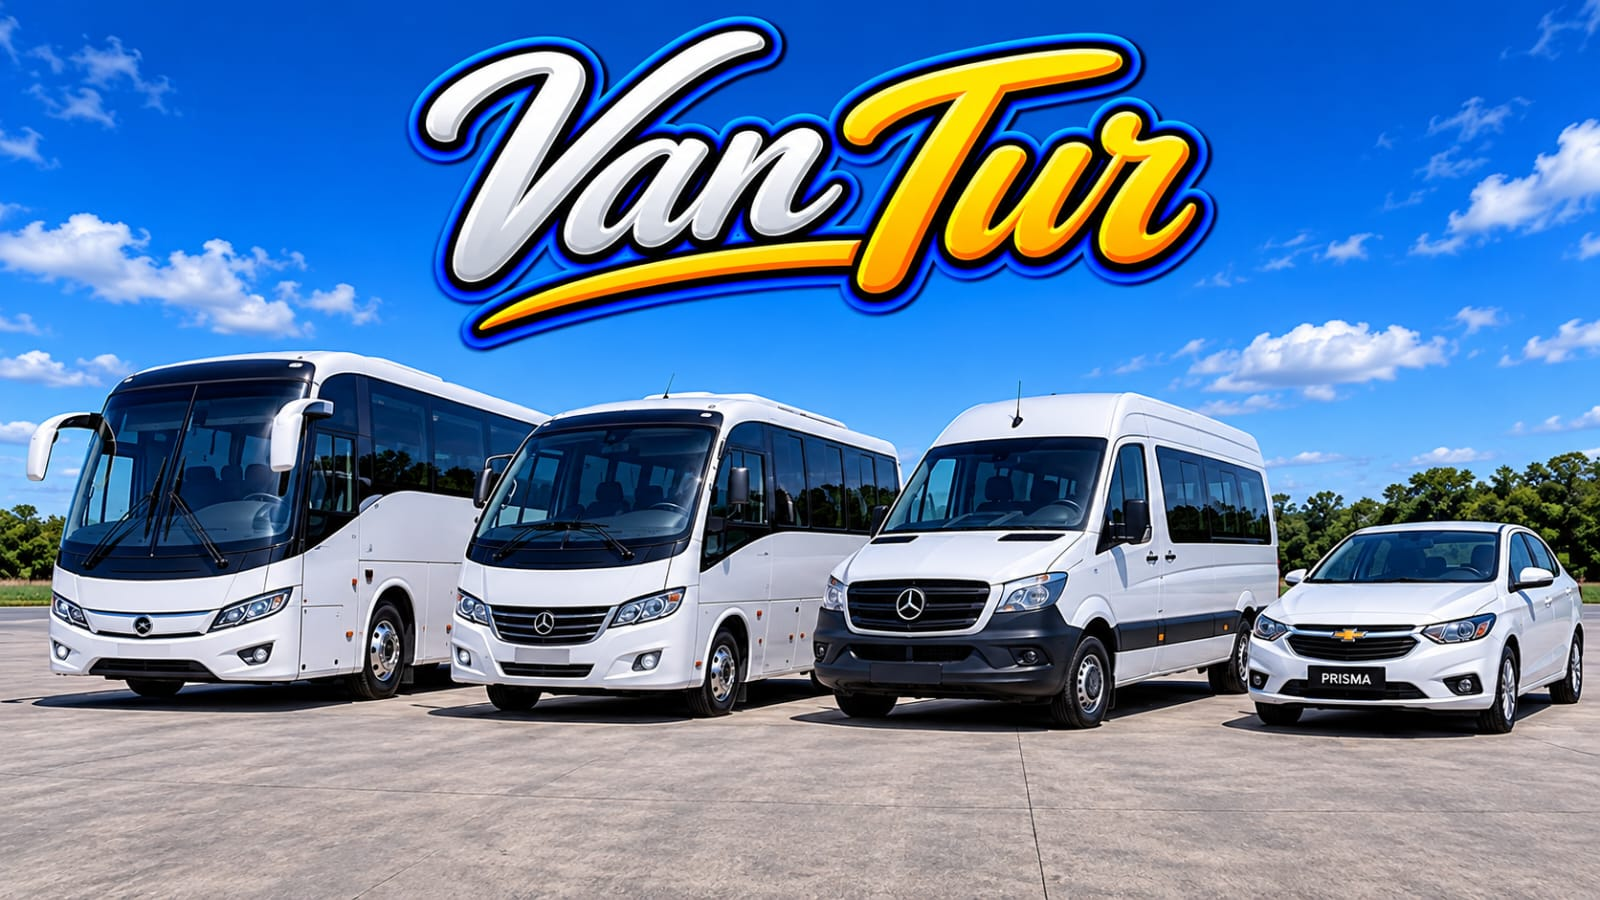
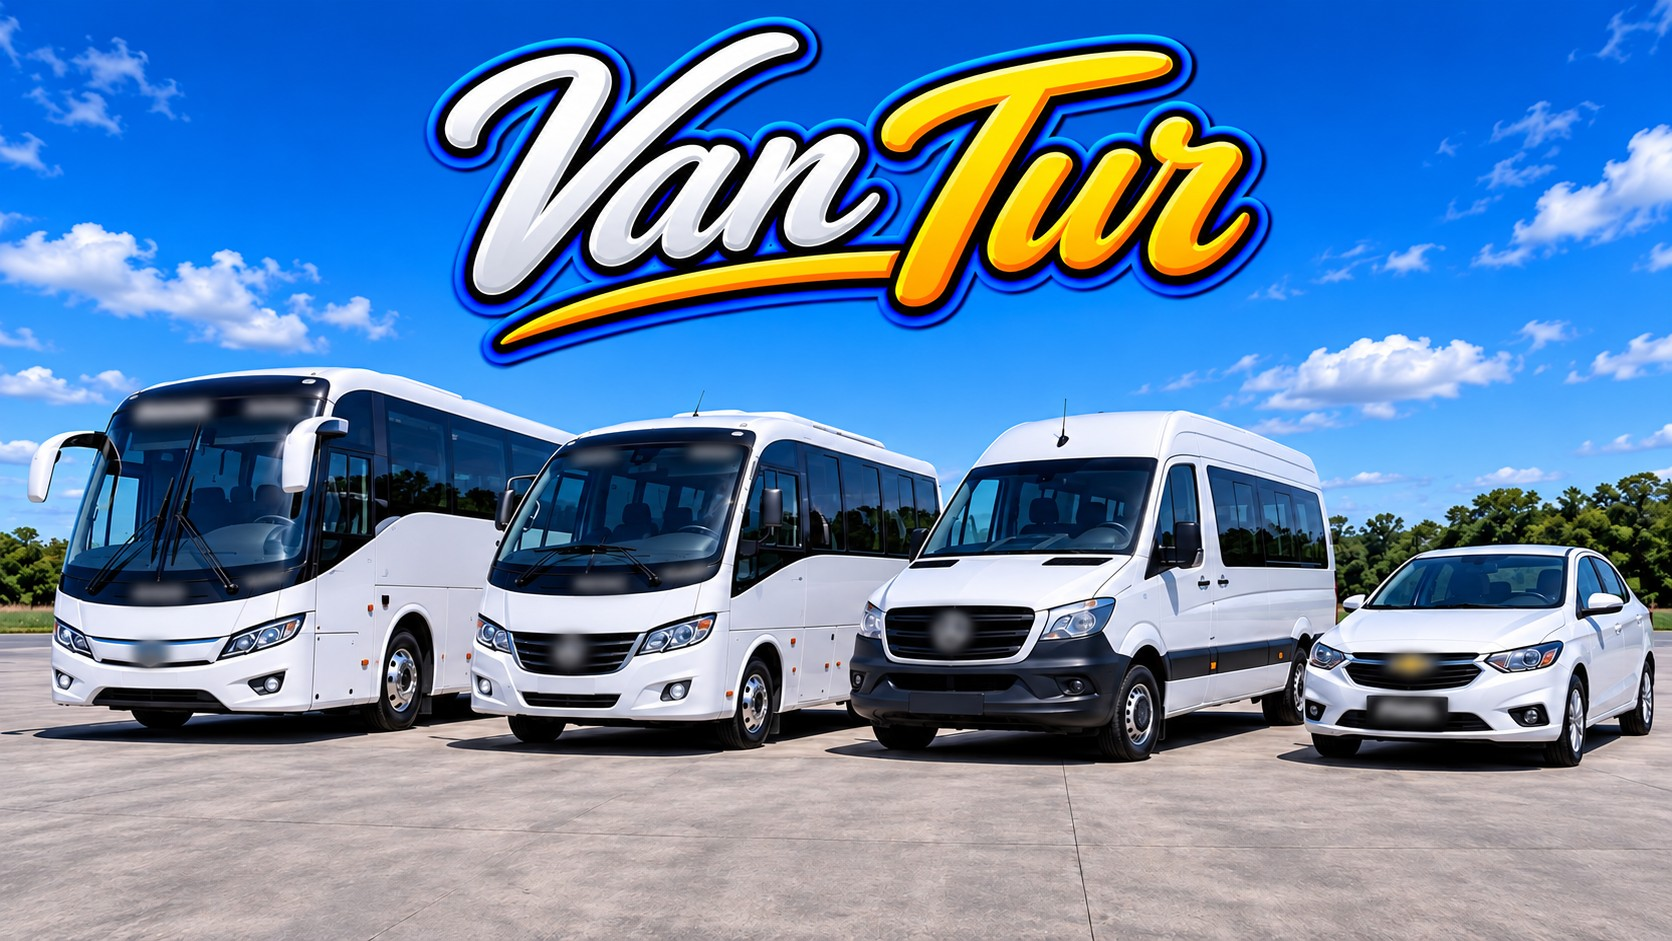
Desfoca marcas de terceiros nas imagens da frota

diff --git a/index.html b/index.html
@@ -13,7 +13,7 @@
 <div class="trust"><div class="wrap"><div><strong><b>01</b> Experiência que acompanha</strong><span>Mais de 20 anos no mercado.</span></div><div><strong><b>02</b> Opções para o seu grupo</strong><span>Do carro executivo ao ônibus.</span></div><div><strong><b>03</b> Sua viagem começa na conversa</strong><span>Orçamento direto pelo WhatsApp.</span></div></div></div>
 <section id="sobre"><div class="wrap about"><div class="about-image"><img src="assets/vans-novas-sem-placa.png" alt="Veículos disponíveis para viagens em grupo" loading="lazy"><div class="year"><strong>2000</strong><span>GRUPO PLASCH · DESDE</span></div></div><div><span class="eyebrow">Prazer, somos a VanTur</span><h2>Experiência no caminho.<br>Compromisso com você.</h2><p>Há mais de 20 anos no mercado, com experiência e compromisso sério. Somos do Grupo Plasch, que tem CNPJ ativo desde 2000.</p><p>Organizamos o transporte para viagens, compromissos empresariais e eventos, considerando o trajeto, o tamanho do grupo e os detalhes de cada ocasião.</p><p>Conte seu plano. Nossa equipe ajuda você a consultar o veículo e as condições para o seu deslocamento.</p><a class="textlink" href="#orcamento">Vamos planejar seu trajeto ↗</a></div></div></section>
 <section class="services" id="servicos"><div class="wrap"><div class="section-head"><div><span class="eyebrow">Para cada ocasião</span><h2>Você escolhe o motivo.<br>A gente combina o caminho.</h2></div><p>Uma solução de transporte para acompanhar a sua agenda, seu grupo e seus planos.</p></div><div class="services-grid"><article class="service"><small>01 / EMPRESAS</small><h3>Transporte empresarial</h3><p>Deslocamentos de equipes para reuniões, compromissos profissionais e eventos corporativos.</p></article><article class="service"><small>02 / EXPLORE</small><h3>Viagens e excursões</h3><p>Transporte para passeios, grupos e viagens programadas. Seu roteiro ganha um novo caminho.</p></article><article class="service"><small>03 / CELEBRE</small><h3>Shows e eventos</h3><p>Reúna seu grupo para shows, festas, confraternizações e outras ocasiões especiais.</p></article><article class="service"><small>04 / CONEXÕES</small><h3>Transfers e traslados</h3><p>Trajetos entre aeroportos, hotéis e pontos combinados, conforme a sua necessidade.</p></article><article class="service"><small>05 / DO SEU JEITO</small><h3>Transporte particular</h3><p>Deslocamentos para famílias e grupos com roteiro e horários previamente combinados.</p></article><article class="service"><h3>Qual é o seu próximo plano?</h3><p>Compartilhe o destino, a data e o número de passageiros.</p><a href="#orcamento">Conversar com a VanTur ↗</a></article></div></div></section>
-<section id="veiculos"><div class="wrap"><div class="section-head"><div><span class="eyebrow">Conheça as opções</span><h2>Um veículo para<br>cada tamanho de plano.</h2></div><p>Veja as opções de transporte e consulte a disponibilidade para a data da sua viagem.</p></div><div class="fleet-grid"><article class="vehicle"><div class="pic"><img class="vans" src="assets/vans-novas-sem-placa.png" alt="Vans Sprinter e Master" loading="lazy"><span class="tag">16 · 18 · 20 LUGARES</span></div><div class="vehicle-copy"><h3>Vans</h3><p>Mercedes-Benz Sprinter e Renault Master para diferentes grupos e trajetos.</p><div class="vehicle-bottom"><span>Empresas · Passeios · Transfers</span><a href="#orcamento" data-vehicle="Van">Consultar disponibilidade ↗</a></div></div></article><article class="vehicle"><div class="pic"><img class="micro" src="assets/micro-frente-sem-placa.png" alt="Micro-ônibus prateado para transporte de passageiros" loading="lazy"><span class="tag">30 LUGARES · SEM BANHEIRO</span></div><div class="vehicle-copy"><h3>Micro-ônibus</h3><p>Conheça o micro-ônibus por fora e por dentro nas novas fotos. Uma opção para viagens e eventos em grupo.</p><div class="vehicle-bottom"><span>Grupos · Eventos · Viagens</span><a href="#orcamento" data-vehicle="Micro-ônibus">Consultar disponibilidade ↗</a></div></div></article><article class="vehicle"><div class="pic"><img class="bus" src="assets/onibus-sem-placa.png" alt="Ônibus de turismo Marcopolo de dois andares" loading="lazy"><span class="tag">VIAGENS EM GRUPO</span></div><div class="vehicle-copy"><h3>Ônibus</h3><p>Transporte para grupos maiores. Consulte a opção executiva de 46 lugares, com poltronas reclináveis e USB.</p><div class="vehicle-bottom"><span>Foto de uma das opções de ônibus</span><a href="#orcamento" data-vehicle="Ônibus">Consultar disponibilidade ↗</a></div></div></article><article class="vehicle"><div class="pic"><img class="car-composition" src="assets/frota-completa.jpg" alt="Composição da VanTur com Chevrolet Prisma à direita" loading="lazy"><span class="tag">ATENDIMENTO INDIVIDUAL</span></div><div class="vehicle-copy"><h3>Carro executivo</h3><p>Chevrolet Prisma, carro de passeio de 5 lugares. Consulte a lotação de passageiros e a disponibilidade para o seu trajeto.</p><div class="vehicle-bottom"><span>Prisma na composição ilustrativa</span><a href="#orcamento" data-vehicle="Carro executivo">Consultar disponibilidade ↗</a></div></div></article></div><div class="photo-gallery"><button type="button" data-photo="assets/micro-frente-sem-placa.png" aria-label="Ampliar foto frontal do micro-ônibus"><img src="assets/micro-frente-sem-placa.png" alt="Micro-ônibus visto de frente" loading="lazy"><span>Vista frontal ↗</span></button><button type="button" data-photo="assets/micro-lateral.jpg" aria-label="Ampliar foto lateral do micro-ônibus"><img src="assets/micro-lateral.jpg" alt="Micro-ônibus visto de lado" loading="lazy"><span>Vista lateral ↗</span></button><button type="button" data-photo="assets/interior-novo.jpg" aria-label="Ampliar foto do interior"><img src="assets/interior-novo.jpg" alt="Interior do micro-ônibus" loading="lazy"><span>Por dentro ↗</span></button></div><div class="interior"><img src="assets/interior-novo.jpg" alt="Interior do micro-ônibus, com poltronas e corredor central" loading="lazy"><div><span class="eyebrow" style="color:var(--yellow)">Por dentro da viagem</span><h3>Conheça os detalhes antes de embarcar.</h3><p>Conheça o interior do micro-ônibus nas fotos enviadas pela equipe. Fale com a equipe sobre o veículo, a acomodação dos passageiros e a bagagem.</p><a href="#orcamento" class="btn">Tirar minhas dúvidas ↗</a></div></div><p class="note">Veículos disponíveis conforme data e operação, incluindo atendimento com parceiros. Capacidade e comodidades são confirmadas no orçamento para o veículo contratado.</p></div></section>
+<section id="veiculos"><div class="wrap"><div class="section-head"><div><span class="eyebrow">Conheça as opções</span><h2>Um veículo para<br>cada tamanho de plano.</h2></div><p>Veja as opções de transporte e consulte a disponibilidade para a data da sua viagem.</p></div><div class="fleet-grid"><article class="vehicle"><div class="pic"><img class="vans" src="assets/vans-novas-sem-placa.png" alt="Vans Sprinter e Master" loading="lazy"><span class="tag">16 · 18 · 20 LUGARES</span></div><div class="vehicle-copy"><h3>Vans</h3><p>Mercedes-Benz Sprinter e Renault Master para diferentes grupos e trajetos.</p><div class="vehicle-bottom"><span>Empresas · Passeios · Transfers</span><a href="#orcamento" data-vehicle="Van">Consultar disponibilidade ↗</a></div></div></article><article class="vehicle"><div class="pic"><img class="micro" src="assets/micro-frente-sem-placa.jpg" alt="Micro-ônibus prateado para transporte de passageiros" loading="lazy"><span class="tag">30 LUGARES · SEM BANHEIRO</span></div><div class="vehicle-copy"><h3>Micro-ônibus</h3><p>Conheça o micro-ônibus por fora e por dentro nas novas fotos. Uma opção para viagens e eventos em grupo.</p><div class="vehicle-bottom"><span>Grupos · Eventos · Viagens</span><a href="#orcamento" data-vehicle="Micro-ônibus">Consultar disponibilidade ↗</a></div></div></article><article class="vehicle"><div class="pic"><img class="bus" src="assets/onibus-sem-placa.jpg" alt="Ônibus de turismo Marcopolo de dois andares" loading="lazy"><span class="tag">VIAGENS EM GRUPO</span></div><div class="vehicle-copy"><h3>Ônibus</h3><p>Transporte para grupos maiores. Consulte a opção executiva de 46 lugares, com poltronas reclináveis e USB.</p><div class="vehicle-bottom"><span>Foto de uma das opções de ônibus</span><a href="#orcamento" data-vehicle="Ônibus">Consultar disponibilidade ↗</a></div></div></article><article class="vehicle"><div class="pic"><img class="car-composition" src="assets/frota-completa.jpg" alt="Composição da VanTur com Chevrolet Prisma à direita" loading="lazy"><span class="tag">ATENDIMENTO INDIVIDUAL</span></div><div class="vehicle-copy"><h3>Carro executivo</h3><p>Chevrolet Prisma, carro de passeio de 5 lugares. Consulte a lotação de passageiros e a disponibilidade para o seu trajeto.</p><div class="vehicle-bottom"><span>Prisma na composição ilustrativa</span><a href="#orcamento" data-vehicle="Carro executivo">Consultar disponibilidade ↗</a></div></div></article></div><div class="photo-gallery"><button type="button" data-photo="assets/micro-frente-sem-placa.jpg" aria-label="Ampliar foto frontal do micro-ônibus"><img src="assets/micro-frente-sem-placa.jpg" alt="Micro-ônibus visto de frente" loading="lazy"><span>Vista frontal ↗</span></button><button type="button" data-photo="assets/micro-lateral.jpg" aria-label="Ampliar foto lateral do micro-ônibus"><img src="assets/micro-lateral.jpg" alt="Micro-ônibus visto de lado" loading="lazy"><span>Vista lateral ↗</span></button><button type="button" data-photo="assets/interior-novo.jpg" aria-label="Ampliar foto do interior"><img src="assets/interior-novo.jpg" alt="Interior do micro-ônibus" loading="lazy"><span>Por dentro ↗</span></button></div><div class="interior"><img src="assets/interior-novo.jpg" alt="Interior do micro-ônibus, com poltronas e corredor central" loading="lazy"><div><span class="eyebrow" style="color:var(--yellow)">Por dentro da viagem</span><h3>Conheça os detalhes antes de embarcar.</h3><p>Conheça o interior do micro-ônibus nas fotos enviadas pela equipe. Fale com a equipe sobre o veículo, a acomodação dos passageiros e a bagagem.</p><a href="#orcamento" class="btn">Tirar minhas dúvidas ↗</a></div></div><p class="note">Veículos disponíveis conforme data e operação, incluindo atendimento com parceiros. Capacidade e comodidades são confirmadas no orçamento para o veículo contratado.</p></div></section>
 <section class="trips" id="viagens"><div class="wrap"><span class="eyebrow">Turismo · Nossas viagens</span><div class="trip-box"><div class="copy"><h2>Mais destinos.<br>Novas histórias.</h2><p>Uma pausa na rotina, um passeio em grupo ou aquela viagem que você quer tirar do papel.</p><p>Litoral e praias, Holambra, Ibitinga, Monte Verde, Campos do Jordão, Aparecida do Norte e Foz do Iguaçu. Consulte a programação, as datas e as saídas disponíveis.</p><button class="btn" data-contact>Consultar próximas viagens ↗</button></div><div class="trip-visual"><img src="assets/vans-novas-sem-placa.png" alt="Vans reunidas em área arborizada" loading="lazy"><span>O próximo destino<br>começa com um “vamos?”.</span></div></div></div></section>
 <section class="friendship" aria-labelledby="friendship-title"><div class="wrap"><div class="friendship-banner"><div class="flag-art" role="img" aria-label="Bandeira VanTur remodelada nas cores verde, amarelo e azul, com a mensagem Juntos fazendo história"><div class="flag-orbit"><img src="assets/logo-transparent.png" alt="VanTur" loading="lazy"></div></div><div class="friendship-copy"><span class="eyebrow">Cada viagem, uma conexão</span><h2 id="friendship-title">Mais que clientes,<br><em>fazemos amigos</em><br>e vivemos belas histórias.</h2><p>O melhor de cada caminho são as pessoas que viajam com a gente.</p><span class="gratitude">#Gratidão</span></div></div></div></section><section id="orcamento"><div class="wrap quote"><div><span class="eyebrow">Vamos planejar?</span><h2>Conte seu plano.<br>Peça seu orçamento.</h2><p>Preencha os detalhes e continue a conversa pelo WhatsApp com a equipe VanTur.</p><div class="steps"><div><b>1</b>Informe o trajeto e os passageiros.</div><div><b>2</b>Escolha um dos contatos da equipe.</div><div><b>3</b>Envie a mensagem e consulte as condições.</div></div><a class="contact-number" href="https://wa.me/5511973739595" target="_blank" rel="noopener">(11) 97373-9595 ↗</a><a class="contact-number" href="https://wa.me/5511980739595" target="_blank" rel="noopener">(11) 98073-9595 ↗</a><a class="contact-number" href="https://wa.me/5511971779595" target="_blank" rel="noopener">(11) 97177-9595 ↗</a></div><form class="form" id="quoteform"><h3>Detalhes da sua viagem</h3><div class="fields"><div class="field"><label for="name">Seu nome *</label><input id="name" name="Nome" autocomplete="name" required placeholder="Como podemos chamar você?"></div><div class="field"><label for="phone">Seu WhatsApp *</label><input id="phone" name="WhatsApp" type="tel" autocomplete="tel" required placeholder="(DDD) 99999-9999" pattern="[+0-9 ()-]{10,20}"></div><div class="field"><label for="service">Tipo de serviço *</label><select id="service" name="Serviço"><option>Viagem ou excursão</option><option>Transporte empresarial</option><option>Show ou evento</option><option>Transfer ou traslado</option><option>Transporte particular</option></select></div><div class="field"><label for="vehicle">Veículo desejado</label><select id="vehicle" name="Veículo"><option>Quero ajuda para escolher</option><option>Carro executivo</option><option>Van</option><option>Micro-ônibus</option><option>Ônibus</option></select></div><div class="field"><label for="people">Passageiros *</label><input id="people" type="number" name="Passageiros" min="1" max="500" required placeholder="Quantidade"></div><div class="field"><label for="target">Contato para atendimento</label><select id="target"><option value="5511973739595">Equipe (11) 97373-9595</option><option value="5511980739595">Equipe (11) 98073-9595</option><option value="5511971779595">Equipe (11) 97177-9595</option></select></div><div class="field"><label for="departure">Data e horário de saída *</label><input id="departure" type="datetime-local" name="Saída" required></div><div class="field"><label for="return">Data e horário de retorno</label><input id="return" type="datetime-local" name="Retorno"></div><div class="field full"><label for="origin">Endereço de embarque *</label><input id="origin" name="Embarque" required placeholder="Rua, número, bairro e cidade"></div><div class="field full"><label for="destination">Endereço de desembarque *</label><input id="destination" name="Desembarque" required placeholder="Rua, número, bairro e cidade"></div><div class="field full"><label for="notes">Observações</label><textarea id="notes" name="Observações" rows="3" placeholder="Bagagens, paradas ou outros detalhes"></textarea></div></div><button class="btn blue" type="submit">Continuar orçamento no WhatsApp ↗</button><p>O WhatsApp será aberto com a mensagem preenchida para você revisar e enviar. Este formulário não armazena seus dados. O orçamento não confirma a reserva.</p></form></div></section>
 <section id="contatos" class="locations"><div class="wrap"><div class="section-head"><div><span class="eyebrow">Perto de você</span><h2>Nossos endereços.</h2></div><p>Conheça a localização dos escritórios e da garagem VanTur.</p></div><div class="office-grid"><article><span class="eyebrow">Escritório · São Paulo</span><h3>Jabaquara</h3><address>Av. Engenheiro Arruda Pereira, 2937, C 410<br>Jabaquara, São Paulo – SP<br>CEP: 04309-010</address></article><article><span class="eyebrow">Escritório · São Caetano do Sul</span><h3>Osvaldo Cruz</h3><address>Rua Coronel Camisão, 157<br>Osvaldo Cruz, São Caetano do Sul – SP<br>CEP: 09571-020</address></article><article><span class="eyebrow">Garagem</span><h3>Jabaquara</h3><p>São Paulo – SP</p></article></div><div class="social-panel"><div><h3>Acompanhe a VanTur</h3><p>@vamosdevantur</p></div><div class="social-links"><a href="https://www.facebook.com/vamosdevantur/" target="_blank" rel="noopener noreferrer" aria-label="Facebook da VanTur, @vamosdevantur"><svg viewBox="0 0 24 24" aria-hidden="true"><path d="M22 12a10 10 0 1 0-11.56 9.88v-6.99H7.9V12h2.54V9.8c0-2.51 1.49-3.9 3.77-3.9 1.09 0 2.23.2 2.23.2v2.45h-1.26c-1.24 0-1.63.77-1.63 1.56V12h2.77l-.44 2.89h-2.33v6.99A10 10 0 0 0 22 12Z"/></svg><span>Facebook</span></a><a href="https://www.instagram.com/vamosdevantur/" target="_blank" rel="noopener noreferrer" aria-label="Instagram da VanTur, @vamosdevantur"><svg viewBox="0 0 24 24" aria-hidden="true"><rect x="3" y="3" width="18" height="18" rx="5" fill="none" stroke="currentColor" stroke-width="2"/><circle cx="12" cy="12" r="4" fill="none" stroke="currentColor" stroke-width="2"/><circle cx="17.5" cy="6.5" r="1.2"/></svg><span>Instagram</span></a><a href="https://www.tiktok.com/@vamosdevantur" target="_blank" rel="noopener noreferrer" aria-label="TikTok da VanTur, @vamosdevantur"><svg viewBox="0 0 24 24" aria-hidden="true"><path d="M16.6 3c.3 2.4 1.7 3.8 4.1 4v3.1a9 9 0 0 1-4.1-1.2v7.2a6 6 0 1 1-5.2-5.9v3.2a2.8 2.8 0 1 0 2 2.7V3z"/></svg><span>TikTok</span></a></div></div></div></section><section class="faq"><div class="wrap faq-layout"><div><span class="eyebrow">Antes de embarcar</span><h2>Vamos tirar<br>suas dúvidas?</h2></div><div><details><summary>Como faço para pedir um orçamento?</summary><p>Preencha o formulário com datas, horários, quantidade de passageiros e endereços. Depois, envie a mensagem pelo WhatsApp para a equipe consultar as condições.</p></details><details><summary>Como escolher o veículo para o meu grupo?</summary><p>Informe o número de passageiros, o trajeto e a bagagem. A equipe confirma as opções disponíveis e a acomodação do veículo oferecido.</p></details><details><summary>Onde consulto as próximas excursões?</summary><p>Na seção Nossas viagens, use o botão de consulta para falar com a equipe sobre destinos, programação, valores e pontos de saída.</p></details><details><summary>O pedido de orçamento já garante a reserva?</summary><p>Não. Disponibilidade, valor, condições e confirmação da reserva são combinados diretamente com a equipe VanTur.</p></details></div></div></section></main>
